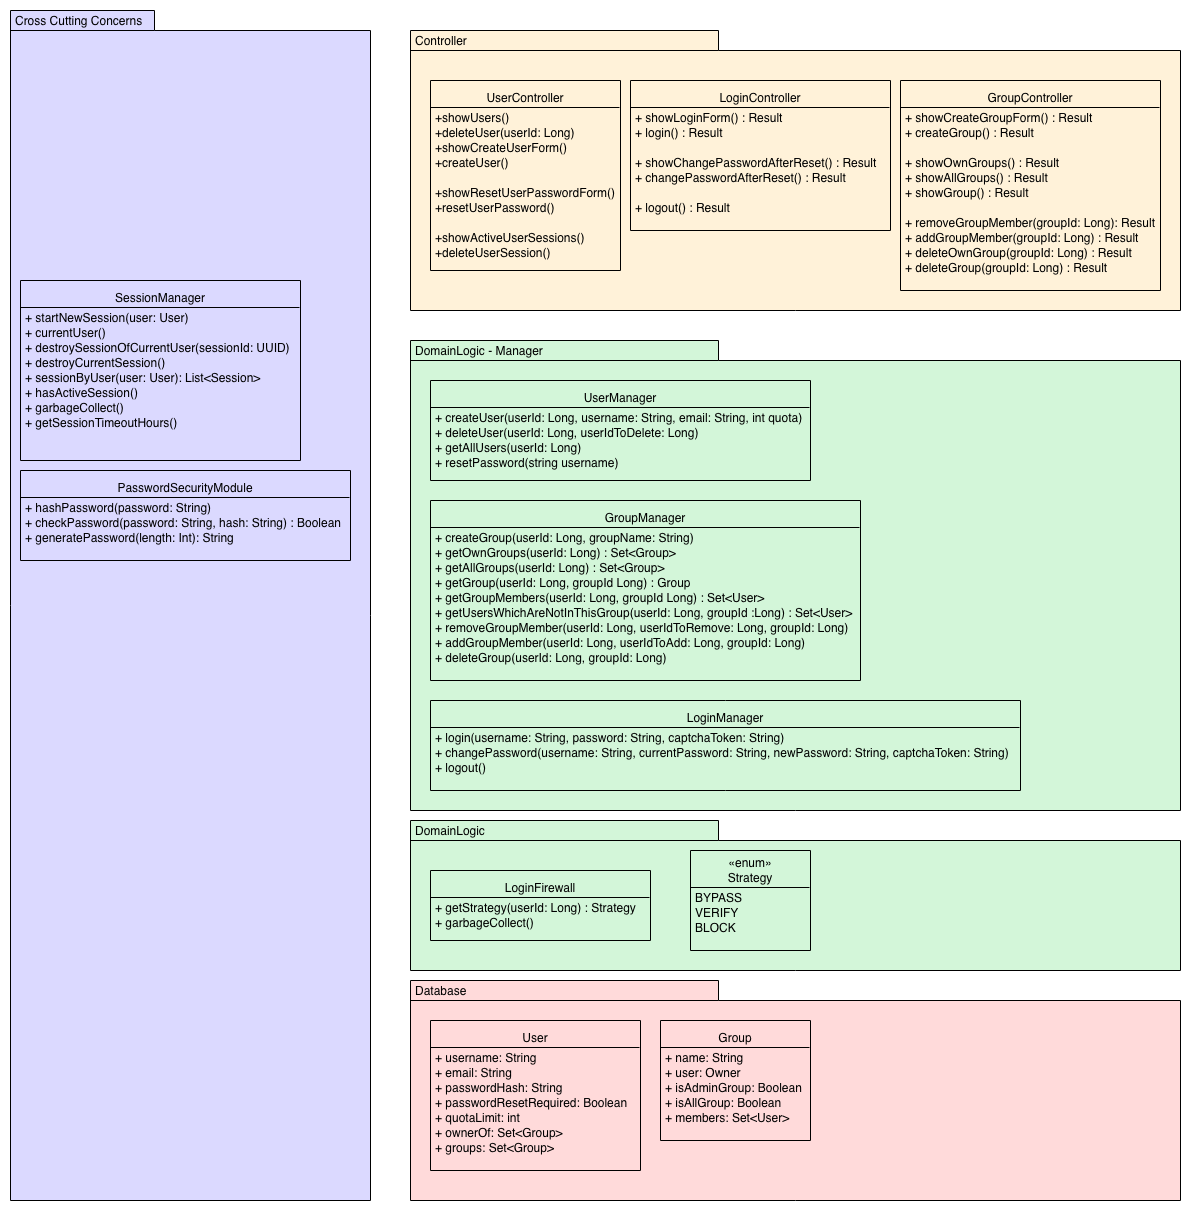
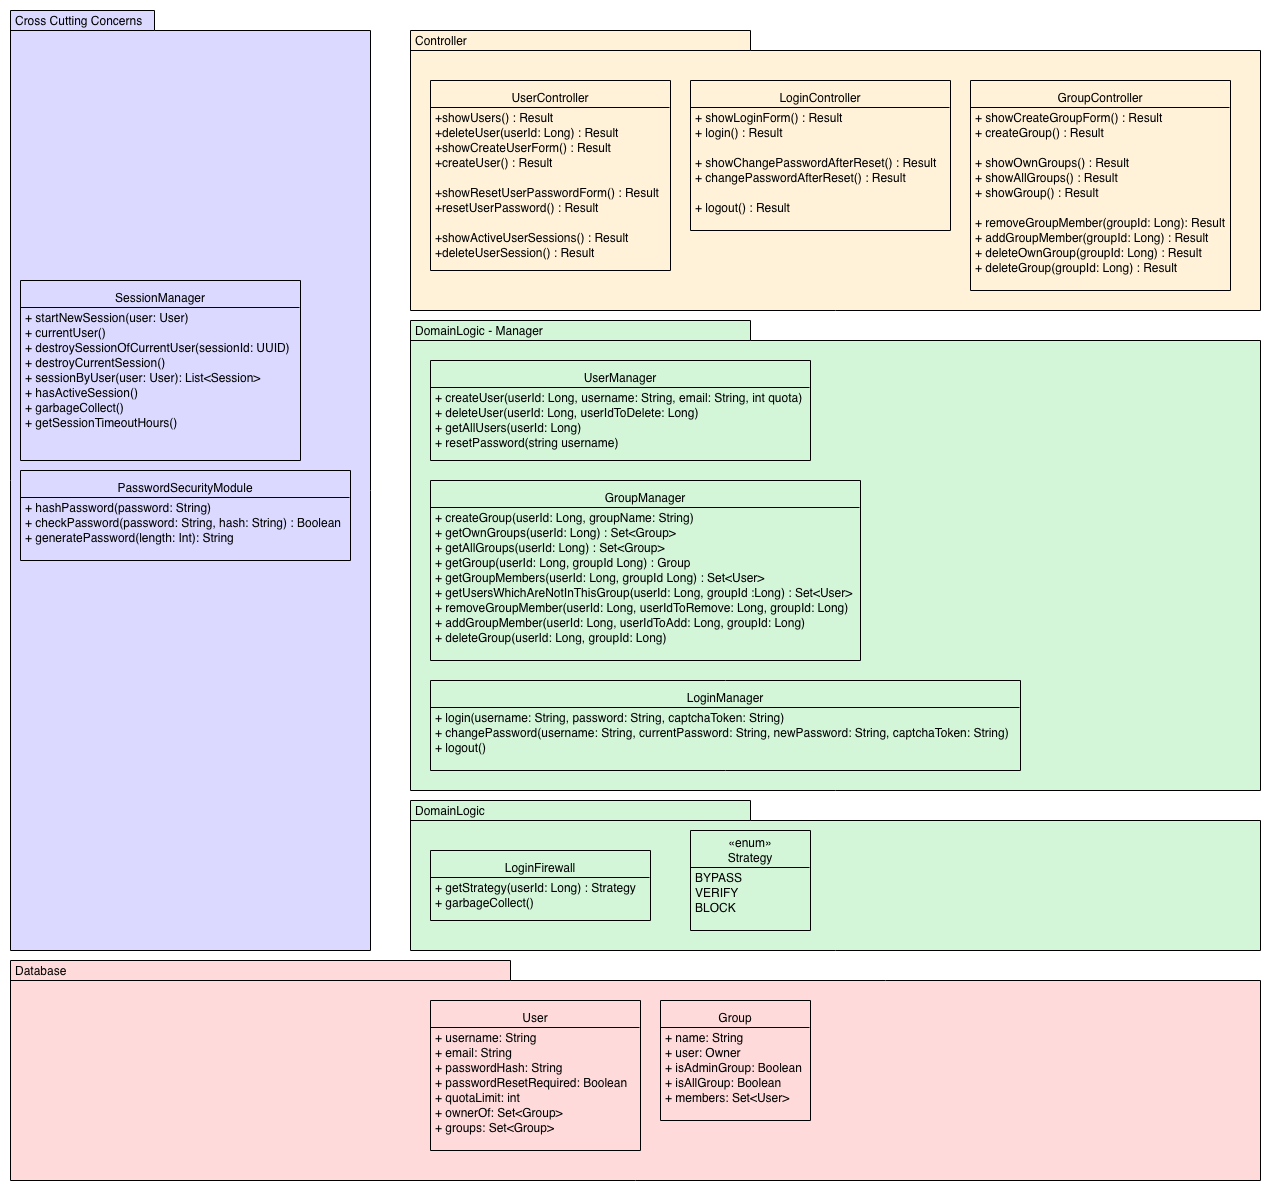
Added class and sequence diagram
added sequence diagram for create user and a class diagram illustrating
the toplevel architecture of this software

Changed region(s): [[0.0, 0.0, 0.995, 0.995], [0.0, 0.0, 0.1555, 0.0311], [0.6529, 0.4042, 0.684, 0.4664]]

diff --git a/docs/architecture.tex b/docs/architecture.tex
@@ -29,11 +29,16 @@
 \tableofcontents  % Inhaltsverzeichnis
 
 \chapter{Architekturaufbau}
+\subsection{Klassendiagramm}
+Dieses Architekturdiagramm verzichtet zugunsten der Übersichtlichkeit auf die Abhängigkeiten zwischen den Klassen. Es dient lediglich zur Veranschaulichung der Top Level Architektur und zur Illustration der wichtigsten Klassen. Wie die durch Farben abgetrennten logische Gruppierung der Klassen im Zusammenhang stehen wird unter der Abbildung textuel erklärt.
 
-Klassendiagramm (High-Level-Ansicht)
-Ggf. Sequenzdiagramme fuer wichtige Ablaeufe
-Verantwortung der jeweiligen Klassen auflisten
-Welche Klasse macht mit welcher Klasse was?
+\includegraphics[width=0.73\paperwidth]{resources/class_diagram.png}
+
+Zu jedem Controller gibt es einen Manager in der Domain Logic. Dieser enthält jegliche Logik zur Abarbeitung des Requests und liefert auftretende Fehler über eine Exception zurück. Datenbankzugriff erfolgt somit niemals von einem Controller, sondern immer aus dem zugehörigen Manager. Beim Sessionmanager handelt es sich um einen Spezialfall, da das Session Konzept ein integraler Bestandteil der Anwendung ist und somit von sehr vielen stellen aus Verwendung findet. Ebenso wie das PasswordSecurityModule was Beispielsweise beim Einloggen als auch beim Erstellen eines neuen Benutzers oder beim Passwort-Reset benötigt wird. Daher wurden diese beiden Klassen unter Cross Cutting Concerns zusammengefasst. Zugriff aus diese beiden Klassen kann sowohl von Controllern aus erfolgen als auch von Managern in der Domain Logic. Die folgende Sequenzdiagramm sollte weitere Einsicht in das Zusammenspiel des Klassen untereinander ermöglichen.
+
+\includegraphics[width=0.78\paperwidth]{resources/createuserseq_diagram.png}
+
+Beim Anlegen eines neuen Benutzers wird zuerst durch ein HTTP GET die Form angefragt. Dies ist notwendig um ein gültiges CSRF Token zu erhalten welches beim anschließenden HTTP POST mitgeliefert werden muss. Auch hier wird bereits, wie aus dem Sequenzdiagramm ersichtlich, überprüft ob der anfragende User authentisiert ist. Ist das der fall wird eine HTML Form zurückgeliefert die anschließend ausgefüllt und durch einen weiteren Request wieder an den Server geschickt wird. Hier wird zuerst über die in Play integrierte Möglichkeit mit Annotations eine erste Validierung der Eingaben vorgenommen. Somit werden bereits zu einem frühen Zeitpunkt Eingaben mit nicht unterstützten Zeichen oder ungültiger Länge herausgefiltert und dem Benutzer durch Anzeigen von Fehlermeldungen direkt am Eingabefeld mitgeteilt. Sind alle Eingaben korrekt, wird der Aufruf weiter an den Manager geleitet. Dieser befragt zuerst die Policy ob der authentisierte Benutzer autorisiert ist einen neuen Benutzer anzulegen, generiert ein neues Passwort, Hashed es und legt in einer Transaktion einen neuen Benutzer an. Das Klartext Passwort wird zurückgegeben und dem Administrator angezeigt um dies dem neuen Benutzer zukommen zu lassen.
 
 \chapter{Sicherheitsmassnahmen}
 
